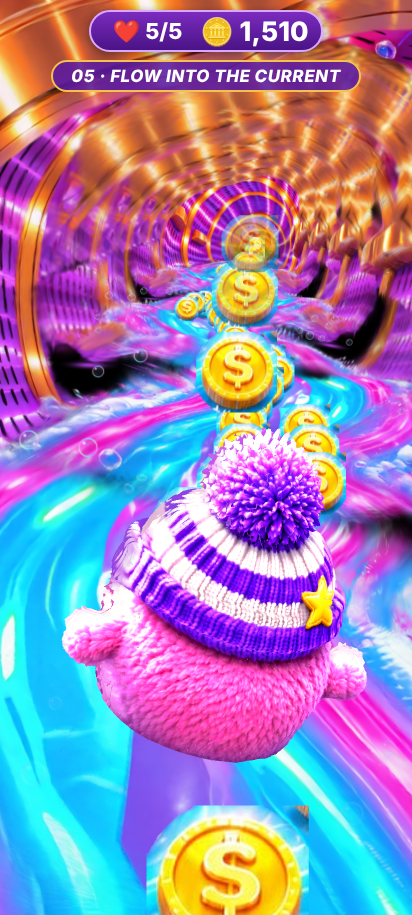
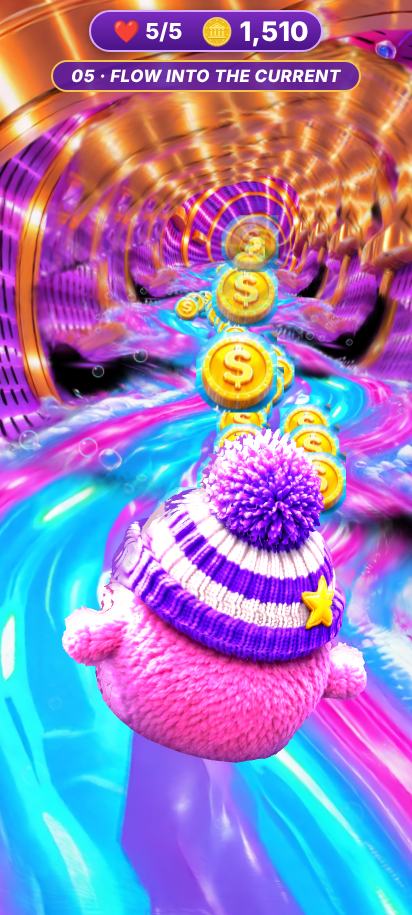
autosave: Rainbow 2026-11-21 12:30 UTC
Automated Rainbow backup (hook:Stop). 19 file(s) changed.
Transcripts: refreshed (repo verified private)

Claude-Session: https://claude.ai/code/session_01DSgRGpB51Z1jjYL78aQFZJ

Changed region(s): [[0.3495, 0.8568, 0.7573, 1.0]]

diff --git a/backups/wip/screen05-agents/agentB/play3.html b/backups/wip/screen05-agents/agentB/play3.html
@@ -60,7 +60,7 @@ const FARK = +(q.get('fark') ?? 9);
 const glow = (L2 && TR.XB) ? (() => { const c = document.createElement('canvas'); c.width = c.height = 256; const g = c.getContext('2d');
   const gr = g.createRadialGradient(128, 128, 0, 128, 128, 128); gr.addColorStop(0, 'rgba(255,253,240,1)'); gr.addColorStop(0.22, 'rgba(255,240,190,1)'); gr.addColorStop(0.5, 'rgba(255,196,92,0.85)'); gr.addColorStop(0.78, 'rgba(236,132,60,0.35)'); gr.addColorStop(1, 'rgba(200,90,160,0)');
   g.fillStyle = gr; g.fillRect(0, 0, 256, 256); const tx = new THREE.CanvasTexture(c); tx.colorSpace = THREE.SRGBColorSpace;
-  const sp = new THREE.Sprite(new THREE.SpriteMaterial({ map: tx, toneMapped: false, transparent: true, depthWrite: false })); sp.scale.set(3.0, 3.0, 1); sp.renderOrder = -10; scene.add(sp); return sp; })() : null;
+  const sp = new THREE.Sprite(new THREE.SpriteMaterial({ map: tx, toneMapped: false, transparent: true, depthWrite: false })); sp.scale.set(2.4, 2.4, 1); sp.renderOrder = -10; scene.add(sp); return sp; })() : null;
 const showTrack = (uB) => {
   const kc = Math.floor((uB - TR.UA) / DU); if (kc === kcNow) return; kcNow = kc;
   near.visible = kc <= 1;
@@ -199,6 +199,7 @@ window.step = (t, dt, steer, speed) => {
   WF?.update(dt, camera); // [waterflow]
   return { s: +st.s.toFixed(3), lat: +st.lat.toFixed(3), coins: coinCount, tile: kcNow };
 };
+window.qaFlow = (dt) => WF?.update(dt, camera); // [waterflow] QA: advance only the water flow (camera, glints, bubbles stay)
 window.qaVisibleSplats = () => { let n = 0; scene.traverse((o) => { if (o instanceof SplatMesh && o.visible && o.packedSplats) n += o.packedSplats.numSplats; }); return n; }; // [track] QA: Android budget check
 window.renderNow = async (n = 2) => { for (let i = 0; i < n; i++) { renderer.render(scene, camera); await new Promise((r) => setTimeout(r, 60)); } renderer.render(scene, camera); return true; };
 window.step(0, 0, 0, 0);

diff --git a/backups/wip/screen05-agents/agentA/controls.js b/backups/wip/screen05-agents/agentA/controls.js
@@ -258,6 +258,12 @@ export function installControls(ctx) {
       d.v.addScaledVector(F.n, -d.g * dt); d.p.addScaledVector(d.v, dt); d.sp.position.copy(d.p);
       const k = d.age / d.life, z = d.size * (0.7 + 0.5 * k); d.sp.scale.set(z, z, 1); d.sp.material.opacity = 0.9 * Math.min(1, k * 6) * (1 - k * k);
     }
+    // coins he missed (other lane / under a leap) sink away behind him instead of sliding huge past the camera
+    const sNow = getS();
+    for (const k of coins) {
+      if (k.got >= 0) continue;
+      const o = 1 - smooth(0.12, 0.5, sNow - k.s); k.sp.visible = o > 0.01; k.sp.material.opacity = o;
+    }
     // HUD coin counter pulse
     if (coinEl) { S.hudPulse = Math.max(0, S.hudPulse - dt * 4); coinEl.style.display = 'inline-block'; coinEl.style.transform = `scale(${(1 + 0.25 * Math.sin(Math.PI * S.hudPulse)).toFixed(3)})`; }
   }

diff --git a/backups/wip/screen05-agents/agentA/compare0.py b/backups/wip/screen05-agents/agentA/compare0.py
@@ -1,0 +1,16 @@
+# Frame-0 identity check: out_controls/a_start_frame0.png (controls on) vs a_start_frame0_controls_off.png (?controls=0)
+# usage: python3 -I compare0.py <agentA dir>
+import sys, json
+from PIL import Image
+import numpy as np
+d = sys.argv[1]
+a = np.asarray(Image.open(f'{d}/out_controls/a_start_frame0.png').convert('RGB')).astype(int)
+b = np.asarray(Image.open(f'{d}/out_controls/a_start_frame0_controls_off.png').convert('RGB')).astype(int)
+diff = np.abs(a - b).max(axis=2)
+res = {'size': list(a.shape[:2][::-1]), 'identical_pixels_pct': round(100 * float((diff == 0).mean()), 3),
+       'within_2_levels_pct': round(100 * float((diff <= 2).mean()), 3), 'within_20_levels_pct': round(100 * float((diff <= 20).mean()), 3),
+       'max_diff': int(diff.max()), 'mean_abs_diff': round(float(np.abs(a - b).mean()), 4)}
+# where do differences sit (rows), to tell HUD vs scene
+rows = np.where(diff.max(axis=1) > 2)[0]
+res['rows_with_diff_gt2'] = [int(rows.min()), int(rows.max()), int(len(rows))] if len(rows) else []
+print(json.dumps(res))

diff --git a/backups/claude-sessions/e7a27dfe-01e5-5ff6-9e4c-e2d0f8167a81/subagents/agent-a18ca6be2c4eebf7f.md b/backups/claude-sessions/e7a27dfe-01e5-5ff6-9e4c-e2d0f8167a81/subagents/agent-a18ca6be2c4eebf7f.md
@@ -1359,3 +1359,94 @@ While the AFTER set renders, let me check the builder diff and gather numbers fo
 > ↩ result: Command running in background with ID: bujn08mbd. Output is being written to: /tmp/claude-0/-home-user-rainbow-/e7a27dfe-01e5-5ff6-9e4c-e2d0f8167a81/tasks/bujn08mbd.output. You will be notified when it completes. To check interim output, use Read on that file path.
 > Session cwd remains /home/user/rainbow-; directory changes made by the backgrounded command do not apply to subsequent commands.
 
+### 🤖 Claude — 2026-11-21T12:27:22.058Z
+
+While the AFTER set renders, here are the BEFORE checker numbers already measured: 3, 3, 4, 3 dark patches at s = 0, 2.3, 4.4, 6.4 (largest 2,009 px). Waiting for the render to finish.
+
+### 🤖 Claude — 2026-11-21T12:27:23.834Z
+
+> 🔧 **Bash** `{"command": "sleep 100; grep -v \"GPU stall\" /tmp/claude-0/-home-user-rainbow-/e7a27dfe-01e5-5ff6-9e4c-e2d0f8167a81/scratchpad/agentB/out_water/after.log", "description": "Check AFTER render progress after a pause", "timeout": 130000}`
+
+### 🧑 User — 2026-11-21T12:27:23.845Z
+
+> ↩ result: <tool_use_error>Blocked: sleep 100 followed by: grep -v "GPU stall" /tmp/claude-0/-home-user-rainbow-/e7a27dfe-01e5-5ff6-9e4c-e2d0f8167a81/scratchpad/agentB/out_water/after.log. To wait for a condition, use Monitor with an until-loop (e.g. `until <check>; do sleep 2; done`). To wait for a command you started, use run_in_background: true. Do not chain shorter sleeps to work around this block.</tool_use_error>
+
+### 🤖 Claude — 2026-11-21T12:27:26.289Z
+
+> 🔧 **Bash** `{"command": "cd /tmp/claude-0/-home-user-rainbow-/e7a27dfe-01e5-5ff6-9e4c-e2d0f8167a81/scratchpad/agentB && timeout 110 bash -c 'until grep -q \"still 0.7\" out_water/after.log; do sleep 3; done'; grep -v \"GPU stall\" out_water/after.log", "description": "Wait for the first AFTER stills", "timeout": 120000}`
+
+### 🧑 User — 2026-11-21T12:29:16.454Z
+
+> ↩ result: ready 33.199
+> still 0 58.667 visible splats -1
+
+### 🤖 Claude — 2026-11-21T12:29:21.075Z
+
+> 🔧 **Bash** `{"command": "cd /tmp/claude-0/-home-user-rainbow-/e7a27dfe-01e5-5ff6-9e4c-e2d0f8167a81/scratchpad/agentB && tail -12 play3.html | cut -c1-200", "description": "Inspect end of page script"}`
+
+### 🧑 User — 2026-11-21T12:29:21.143Z
+
+> ↩ result: if (c.got >= 0) { const k = (t - c.got) / 0.4; c.sp.visible = k < 1; if (k < 1) { c.sp.position.copy(benny.position).addScaledVector(F.n, SC.benny_h * (1.05 + 0.6 * k)); c.sp.material.opacity = 1 
+>   }
+>   WF?.update(dt, camera); // [waterflow]
+>   return { s: +st.s.toFixed(3), lat: +st.lat.toFixed(3), coins: coinCount, tile: kcNow };
+> };
+> window.qaFlow = (dt) => WF?.update(dt, camera); // [waterflow] QA: advance only the water flow (camera, glints, bubbles stay)
+> window.qaVisibleSplats = () => { let n = 0; scene.traverse((o) => { if (o instanceof SplatMesh && o.visible && o.packedSplats) n += o.packedSplats.numSplats; }); return n; }; // [track] QA: Android bu
+> window.renderNow = async (n = 2) => { for (let i = 0; i < n; i++) { renderer.render(scene, camera); await new Promise((r) => setTimeout(r, 60)); } renderer.render(scene, camera); return true; };
+> window.step(0, 0, 0, 0);
+> for (let i = 0; i < 6; i++) { renderer.render(scene, camera); await new Promise((r) => setTimeout(r, 150)); }
+> window.ready = true;
+> </script></body></html>
+
+### 🤖 Claude — 2026-11-21T12:29:27.535Z
+
+> 🔧 **Bash** `{"command": "cd /tmp/claude-0/-home-user-rainbow-/e7a27dfe-01e5-5ff6-9e4c-e2d0f8167a81/scratchpad/agentB && grep -n \"visible splats\\|qaFlow\" shots_w.cjs | cut -c1-250", "description": "Check capture script QA calls"}`
+
+### 🧑 User — 2026-11-21T12:29:27.590Z
+
+> ↩ result: 22:      await page.evaluate(() => window.renderNow(3)); await page.screenshot({ path: `${out}/${pre}${s}.png`, timeout: 600000 }); console.log('still', s, (Date.now() - t1) / 1000, 'visible splats', await page.evaluate(() => window.qaVisibleSplats ?
+> 28:      await page.evaluate((dt) => { window.qaFlow(dt); }, dt);
+
+### 🤖 Claude — 2026-11-21T12:29:29.793Z
+
+> 🔧 **Read** `{"file_path": "/tmp/claude-0/-home-user-rainbow-/e7a27dfe-01e5-5ff6-9e4c-e2d0f8167a81/scratchpad/agentB/out_water/after/s_0.png"}`
+
+### 🧑 User — 2026-11-21T12:29:29.836Z
+
+> ↩ result: [image]
+
+### 🤖 Claude — 2026-11-21T12:29:45.861Z
+
+> 🔧 **Bash** `{"command": "pkill -f \"shots_w.cjs\" ; cd /tmp/claude-0/-home-user-rainbow-/e7a27dfe-01e5-5ff6-9e4c-e2d0f8167a81/scratchpad/agentB && python3 -I - <<'EOF'\np = 'shots_w.cjs'; s = open(p).read()\na = \"\"\"  const port = 8900 + Math.floor(Math.random() * 90);\n  const srv = spawn('python3', ['-m', 'http.server', String(port)], { cwd: __dirname, stdio: 'ignore' });\n  await new Promise((r) => setTimeout(r, 1200));\n\"\"\"\nb = \"\"\"  // own server on a free port, verified to serve THIS folder (another specialist runs servers on similar ports)\n  let port, srv;\n  for (let tries = 0; ; tries++) …[+877 chars]`
+
+### 🧑 User — 2026-11-21T12:29:50.026Z
+
+> ↩ result: server 9645
+> console.warning: [.WebGL-0x1a74001b9c00]GL Driver Message (OpenGL, Performance, GL_CLOSE_PATH_NV, High): GPU stall due to ReadPixels
+
+### 🤖 Claude — 2026-11-21T12:29:54.051Z
+
+> 🔧 **Bash** `{"command": "ls /tmp/claude-0/-home-user-rainbow-/e7a27dfe-01e5-5ff6-9e4c-e2d0f8167a81/scratchpad/agentA/ | grep -i \"play3\\|orig\\|shots\" ; ss -ltnp 2>/dev/null | grep -E \":8[6-9][0-9][0-9]|:9[4-8][0-9][0-9]\" | head", "description": "Check for name clashes and listening ports"}`
+
+### 🧑 User — 2026-11-21T12:29:54.130Z
+
+> ↩ result: play3.html
+> play3.orig.html
+> play_shots.cjs
+> play_shots2.cjs
+> shots.cjs
+
+### 🤖 Claude — 2026-11-21T12:30:00.186Z
+
+> 🔧 **Bash** `{"command": "cd /tmp/claude-0/-home-user-rainbow-/e7a27dfe-01e5-5ff6-9e4c-e2d0f8167a81/scratchpad/agentB && until grep -q \"tpair done\\|pageerror\\|Error\" out_water/after.log; do sleep 5; done; grep -v \"GPU stall\" out_water/after.log", "description": "Wait in background for AFTER render completion", "timeout": 1200000, "run_in_background": true}`
+
+### 🧑 User — 2026-11-21T12:30:00.239Z
+
+> ↩ result: Command running in background with ID: bopm814g2. Output is being written to: /tmp/claude-0/-home-user-rainbow-/e7a27dfe-01e5-5ff6-9e4c-e2d0f8167a81/tasks/bopm814g2.output. You will be notified when it completes. To check interim output, use Read on that file path.
+> Session cwd remains /home/user/rainbow-; directory changes made by the backgrounded command do not apply to subsequent commands.
+
+### 🤖 Claude — 2026-11-21T12:30:02.968Z
+
+> 🔧 **Bash** `{"command": "cd /tmp/claude-0/-home-user-rainbow-/e7a27dfe-01e5-5ff6-9e4c-e2d0f8167a81/scratchpad/agentB && timeout 110 bash -c 'until grep -q \"still 0 \" out_water/after.log; do sleep 3; done'; grep -v \"GPU stall\" out_water/after.log", "description": "Wait for the first valid AFTER still", "timeout": 120000}`
+

diff --git a/backups/claude-sessions/e7a27dfe-01e5-5ff6-9e4c-e2d0f8167a81/transcript.md b/backups/claude-sessions/e7a27dfe-01e5-5ff6-9e4c-e2d0f8167a81/transcript.md
@@ -5932,3 +5932,66 @@ What's on GitHub and kept up to date every 5 minutes:
 
 The five-minute autosave reports OK, and the two specialists are still running.
 
+### 🧑 User — 2026-11-21T12:30:38.322Z
+
+Looking fantastic. Not interrupting the specialist. How's it going so far?
+
+### 🤖 Claude — 2026-11-21T12:30:42.513Z
+
+> 🔧 **Bash** `{"command": "S=/tmp/claude-0/-home-user-rainbow-/e7a27dfe-01e5-5ff6-9e4c-e2d0f8167a81/scratchpad; for a in agentA agentB; do echo \"== $a\"; ls -t $S/$a | head -8 | tr '\\n' ' '; echo; ls $S/$a/out_* 2>/dev/null | head -12 | tr '\\n' ' '; echo; done; date -u +%H:%M; uptime | sed 's/.*load/load/'", "description": "Peek at the specialists' working folders (read-only)"}`
+
+### 🧑 User — 2026-11-21T12:30:42.614Z
+
+> ↩ result: == agentA
+> run_only0.log run_full.log swipe_log.json out_controls compare0.py swipe_test.cjs controls.js play3.html 
+> _noviewport_run a_start_frame0.png b_mid_lane_change_left.png c_leap_top.png d_after_air_coin.png e_dive.png f_resurface_splash.png 
+> == agentB
+> out_water shots_w.cjs play3.html tools track_w waterflow.js track_clip.cjs play3_orig.html 
+> after after.log before diag 
+> 12:30
+> load average: 9.09, 8.06, 6.28
+
+### 🤖 Claude — 2026-11-21T12:30:48.331Z
+
+> 🔧 **Bash** `{"command": "S=/tmp/claude-0/-home-user-rainbow-/e7a27dfe-01e5-5ff6-9e4c-e2d0f8167a81/scratchpad; python3 -I -c \"\nimport json\nd=json.load(open('$S/agentA/swipe_log.json'))\nrows=d if isinstance(d,list) else d.get('log',d.get('rows',[]))\nprint(type(d).__name__, len(rows) if hasattr(rows,'__len__') else '')\nfor r in (rows[:14] if isinstance(rows,list) else []): print({k:r[k] for k in list(r)[:8]})\n\" 2>&1 | head -20; ls $S/agentB/out_water/before $S/agentB/out_water/after 2>/dev/null | head", "description": "Read the swipe test log summary (read-only)"}`
+
+### 🧑 User — 2026-11-21T12:30:48.439Z
+
+> ↩ result: dict 162
+> {'f': 1, 's': 0.047, 'lane': 0, 'lat': 0, 'h': 0, 'lean': 0, 'pitch': 0, 'camLat': 0}
+> {'f': 2, 's': 0.093, 'lane': 0, 'lat': 0, 'h': 0, 'lean': 0, 'pitch': 0, 'camLat': 0}
+> {'f': 3, 's': 0.14, 'lane': 0, 'lat': 0, 'h': 0, 'lean': 0, 'pitch': 0, 'camLat': 0}
+> {'f': 4, 's': 0.187, 'lane': 0, 'lat': 0, 'h': 0, 'lean': 0, 'pitch': 0, 'camLat': 0}
+> {'f': 5, 's': 0.233, 'lane': 0, 'lat': 0, 'h': 0, 'lean': 0, 'pitch': 0, 'camLat': 0}
+> {'f': 6, 's': 0.28, 'lane': 0, 'lat': 0, 'h': 0, 'lean': 0, 'pitch': 0, 'camLat': 0}
+> {'f': 7, 's': 0.327, 'lane': 0, 'lat': 0, 'h': 0, 'lean': 0, 'pitch': 0, 'camLat': 0}
+> {'f': 8, 's': 0.373, 'lane': 0, 'lat': 0, 'h': 0, 'lean': 0, 'pitch': 0, 'camLat': 0}
+> {'f': 9, 's': 0.42, 'lane': 0, 'lat': 0, 'h': 0, 'lean': 0, 'pitch': 0, 'camLat': 0}
+> {'f': 10, 's': 0.467, 'lane': -1, 'lat': -0.0221, 'h': 0, 'lean': -0.037, 'pitch': 0, 'camLat': -0.0002}
+> {'f': 11, 's': 0.513, 'lane': -1, 'lat': -0.0635, 'h': 0, 'lean': -0.101, 'pitch': 0, 'camLat': -0.001}
+> {'f': 12, 's': 0.56, 'lane': -1, 'lat': -0.1045, 'h': 0, 'lean': -0.153, 'pitch': 0, 'camLat': -0.003}
+> {'f': 13, 's': 0.607, 'lane': -1, 'lat': -0.1384, 'h': 0, 'lean': -0.177, 'pitch': 0, 'camLat': -0.0062}
+> {'f …[+364 chars]
+
+### 🤖 Claude — 2026-11-21T12:30:52.916Z
+
+Going well so far. Both specialists are still running and I haven't interrupted them. Here's what I can see from their working files, without looking at any video:
+
+**Swipe controls specialist** (looks nearly finished):
+- **Controls:** the code is written and being tested with real touch swipes on the emulated Android phone.
+- **Swipe test log:** the first swipe left took effect right away. Benny glided smoothly into the left lane over about a quarter of a second, with no jump, and leaned into the move. The camera followed gently behind.
+- **Test pictures done:** start, mid lane change, top of a leap, collecting an air coin, a dive, and the splash as he comes back up.
+
+**Water and visuals specialist** (still mid-way):
+- **Water flow:** the flowing-water code is written.
+- **Gaps and far end:** the track has been rebuilt to remove the dark gaps and fix the far end.
+- **Before/after check:** the "before" pictures and measurements are done, and the "after" pictures are rendering now.
+
+The machine is fully busy with both of them rendering, so it's a bit slow. When both finish, I'll merge their work and run the full acceptance test over the whole level. You only see a video once everything passes.
+
+Everything is still being saved to GitHub every 5 minutes.
+
+### 🧑 User — 2026-11-21T12:30:55.388Z
+
+I meant to say, how are the specialists doing? Do not interrupt the specialist. I just wonder how my screens are going. The screen.
+

diff --git a/backups/CONVERSATION_INDEX.md b/backups/CONVERSATION_INDEX.md
@@ -60,7 +60,7 @@ Search tip: `grep -ril "07" backups/claude-sessions/*/transcript.md`
 | `2861ab18-7c8b-528d-aa72-c51b8f64525c` | Restore tools, plugins, and agents from branch | `ccr-2644c3c0-iikckn` | 2026-11-20T20:09:21.127Z | 2026-11-20T22:12:43.171Z | 19 | 636 | 4 | benny, girl, water, 07, 08, plunge, autosave, backup, android, playwright, blender, meshy, screens, towel, hud, coin, shader, agents | [md](claude-sessions/2861ab18-7c8b-528d-aa72-c51b8f64525c/transcript.md) · [jsonl](claude-sessions/2861ab18-7c8b-528d-aa72-c51b8f64525c/transcript.sanitized.jsonl) |
 | `76b6034c-7087-5c1f-8dd2-37e10f6a64f1` | Screen 06 purple washer slide visuals | `ccr-e490fceb-u85291` | 2026-11-20T22:21:09.218Z | 2026-11-20T23:40:28.480Z | 18 | 547 | 3 | benny, girl, water, 07, 08, plunge, autosave, backup, android, playwright, blender, meshy, screens, towel, hud, coin, shader, agents | [md](claude-sessions/76b6034c-7087-5c1f-8dd2-37e10f6a64f1/transcript.md) · [jsonl](claude-sessions/76b6034c-7087-5c1f-8dd2-37e10f6a64f1/transcript.sanitized.jsonl) |
 | `73e630f8-f9d6-5165-abf6-affe24158479` | Brew screens exact match | `ccr-4fcad20e-a6pp8w` | 2026-11-20T23:55:56.097Z | 2026-11-21T02:47:17.728Z | 23 | 640 | 0 | benny, girl, water, 07, 08, plunge, autosave, backup, android, playwright, blender, meshy, screens, towel, hud, coin, shader, agents | [md](claude-sessions/73e630f8-f9d6-5165-abf6-affe24158479/transcript.md) · [jsonl](claude-sessions/73e630f8-f9d6-5165-abf6-affe24158479/transcript.sanitized.jsonl) |
-| `e7a27dfe-01e5-5ff6-9e4c-e2d0f8167a81` | Screen 05 3D tunnel gold bands | `claude/screen-05-3d-geometry-9yu7pu` | 2026-11-21T02:57:37.060Z | 2026-11-21T12:27:16.206Z | 43 | 683 | 2 | benny, girl, water, 07, 08, plunge, autosave, backup, android, playwright, blender, meshy, screens, towel, hud, coin, shader, agents | [md](claude-sessions/e7a27dfe-01e5-5ff6-9e4c-e2d0f8167a81/transcript.md) · [jsonl](claude-sessions/e7a27dfe-01e5-5ff6-9e4c-e2d0f8167a81/transcript.sanitized.jsonl) |
+| `e7a27dfe-01e5-5ff6-9e4c-e2d0f8167a81` | Screen 05 3D tunnel gold bands | `claude/screen-05-3d-geometry-9yu7pu` | 2026-11-21T02:57:37.060Z | 2026-11-21T12:30:55.388Z | 45 | 688 | 2 | benny, girl, water, 07, 08, plunge, autosave, backup, android, playwright, blender, meshy, screens, towel, hud, coin, shader, agents | [md](claude-sessions/e7a27dfe-01e5-5ff6-9e4c-e2d0f8167a81/transcript.md) · [jsonl](claude-sessions/e7a27dfe-01e5-5ff6-9e4c-e2d0f8167a81/transcript.sanitized.jsonl) |
 
 ## Restore / resume
 

diff --git a/backups/BACKUP_LOG.md b/backups/BACKUP_LOG.md
@@ -1186,3 +1186,4 @@ hint: "git config advice.addIgnoredFile f |
 | 2026-11-21T12:22:19+00:00 | daemon | committed+pushed | `a731ac3fa75b` | `claude/screen-05-3d-geometry-9yu7pu` | 6 | True |  |
 | 2026-11-21T12:26:03+00:00 | manual:save-agents-wip | committed+pushed | `7e7d7df54c37` | `claude/screen-05-3d-geometry-9yu7pu` | 113 | True |  |
 | 2026-11-21T12:26:37+00:00 | hook:Stop | committed+pushed | `5cf2096eb60d` | `claude/screen-05-3d-geometry-9yu7pu` | 9 | True |  |
+| 2026-11-21T12:27:19+00:00 | daemon | committed+pushed | `cdface8f77aa` | `claude/screen-05-3d-geometry-9yu7pu` | 6 | True |  |
